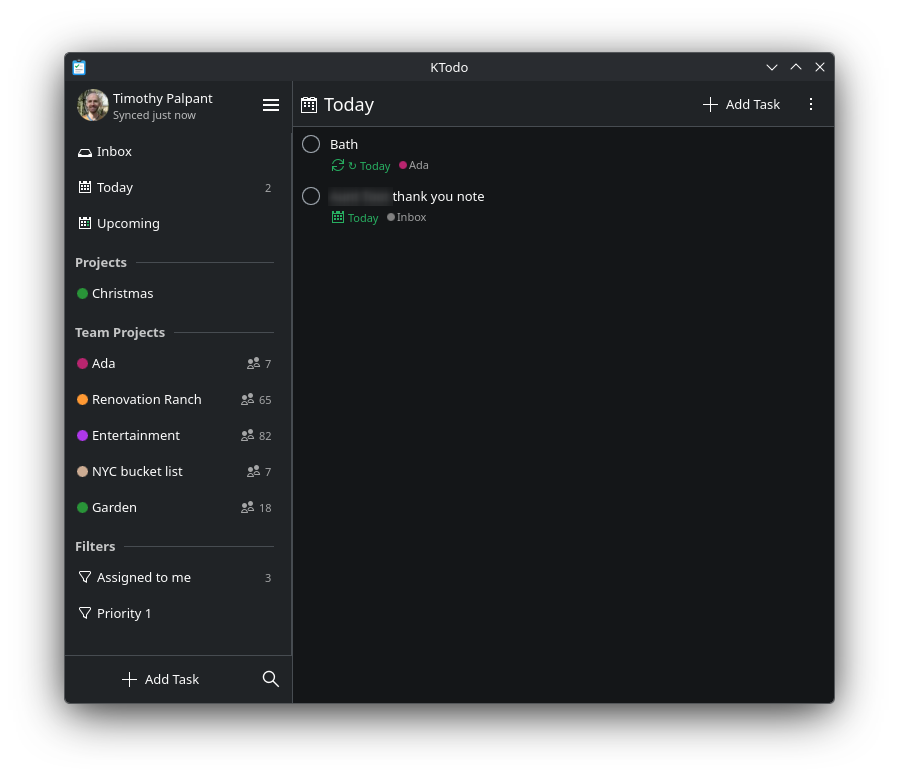
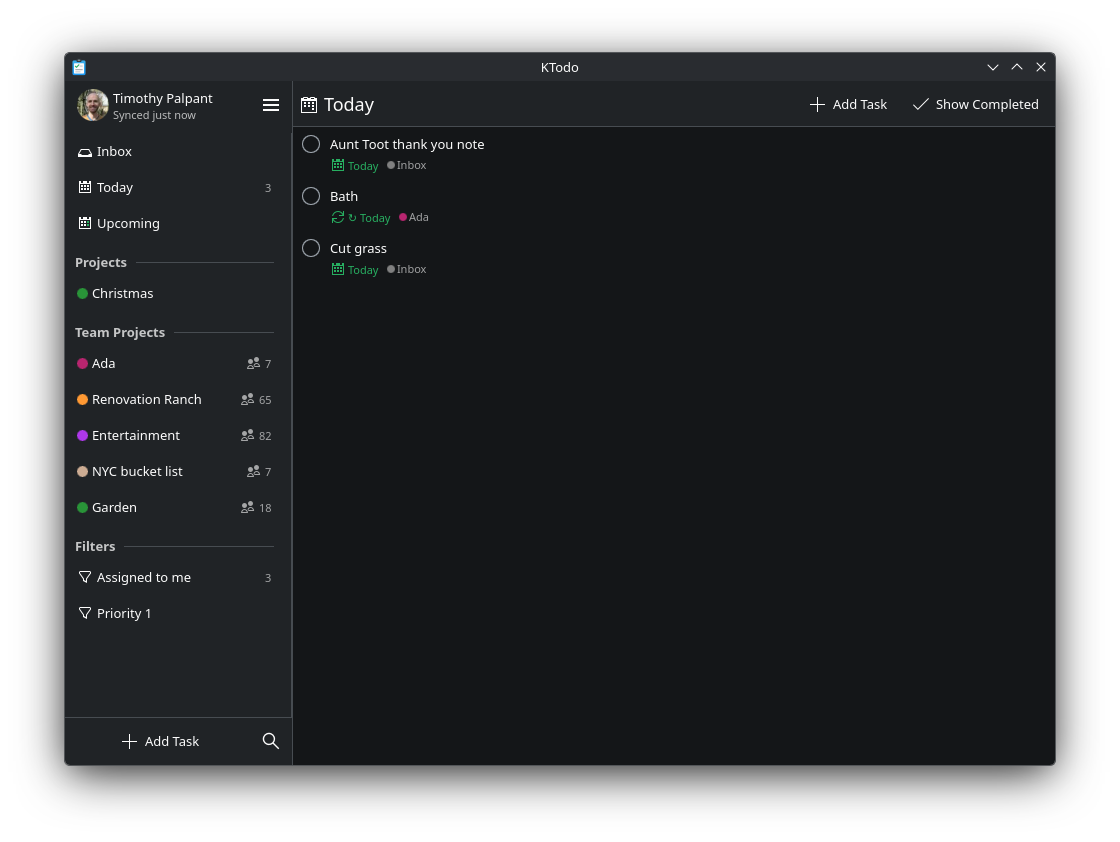
Release 1.0.2

diff --git a/docs/index.html b/docs/index.html
@@ -276,7 +276,8 @@ flatpak run io.github.timpalpant.ktodo</code></pre>
 
     <p>
       On Arch Linux and derivatives, download the matching
-      <code>ktodo-*.pkg.tar.zst</code> from the release, then:
+      <code>ktodo-*.pkg.tar.zst</code> from the
+      <a href="https://github.com/timpalpant/ktodo/releases">latest release</a>, then:
     </p>
 <pre><code>sudo pacman -U ktodo-*.pkg.tar.zst</code></pre>
 

diff --git a/README.md b/README.md
@@ -50,8 +50,8 @@ flatpak run io.github.timpalpant.ktodo
 
 ### Arch Linux
 
-Each release attaches a prebuilt `*.pkg.tar.zst`, if you would rather not
-build locally:
+Download `ktodo-*.pkg.tar.zst` from the
+[latest release](https://github.com/timpalpant/ktodo/releases), then:
 
 ```sh
 sudo pacman -U ktodo-*.pkg.tar.zst
